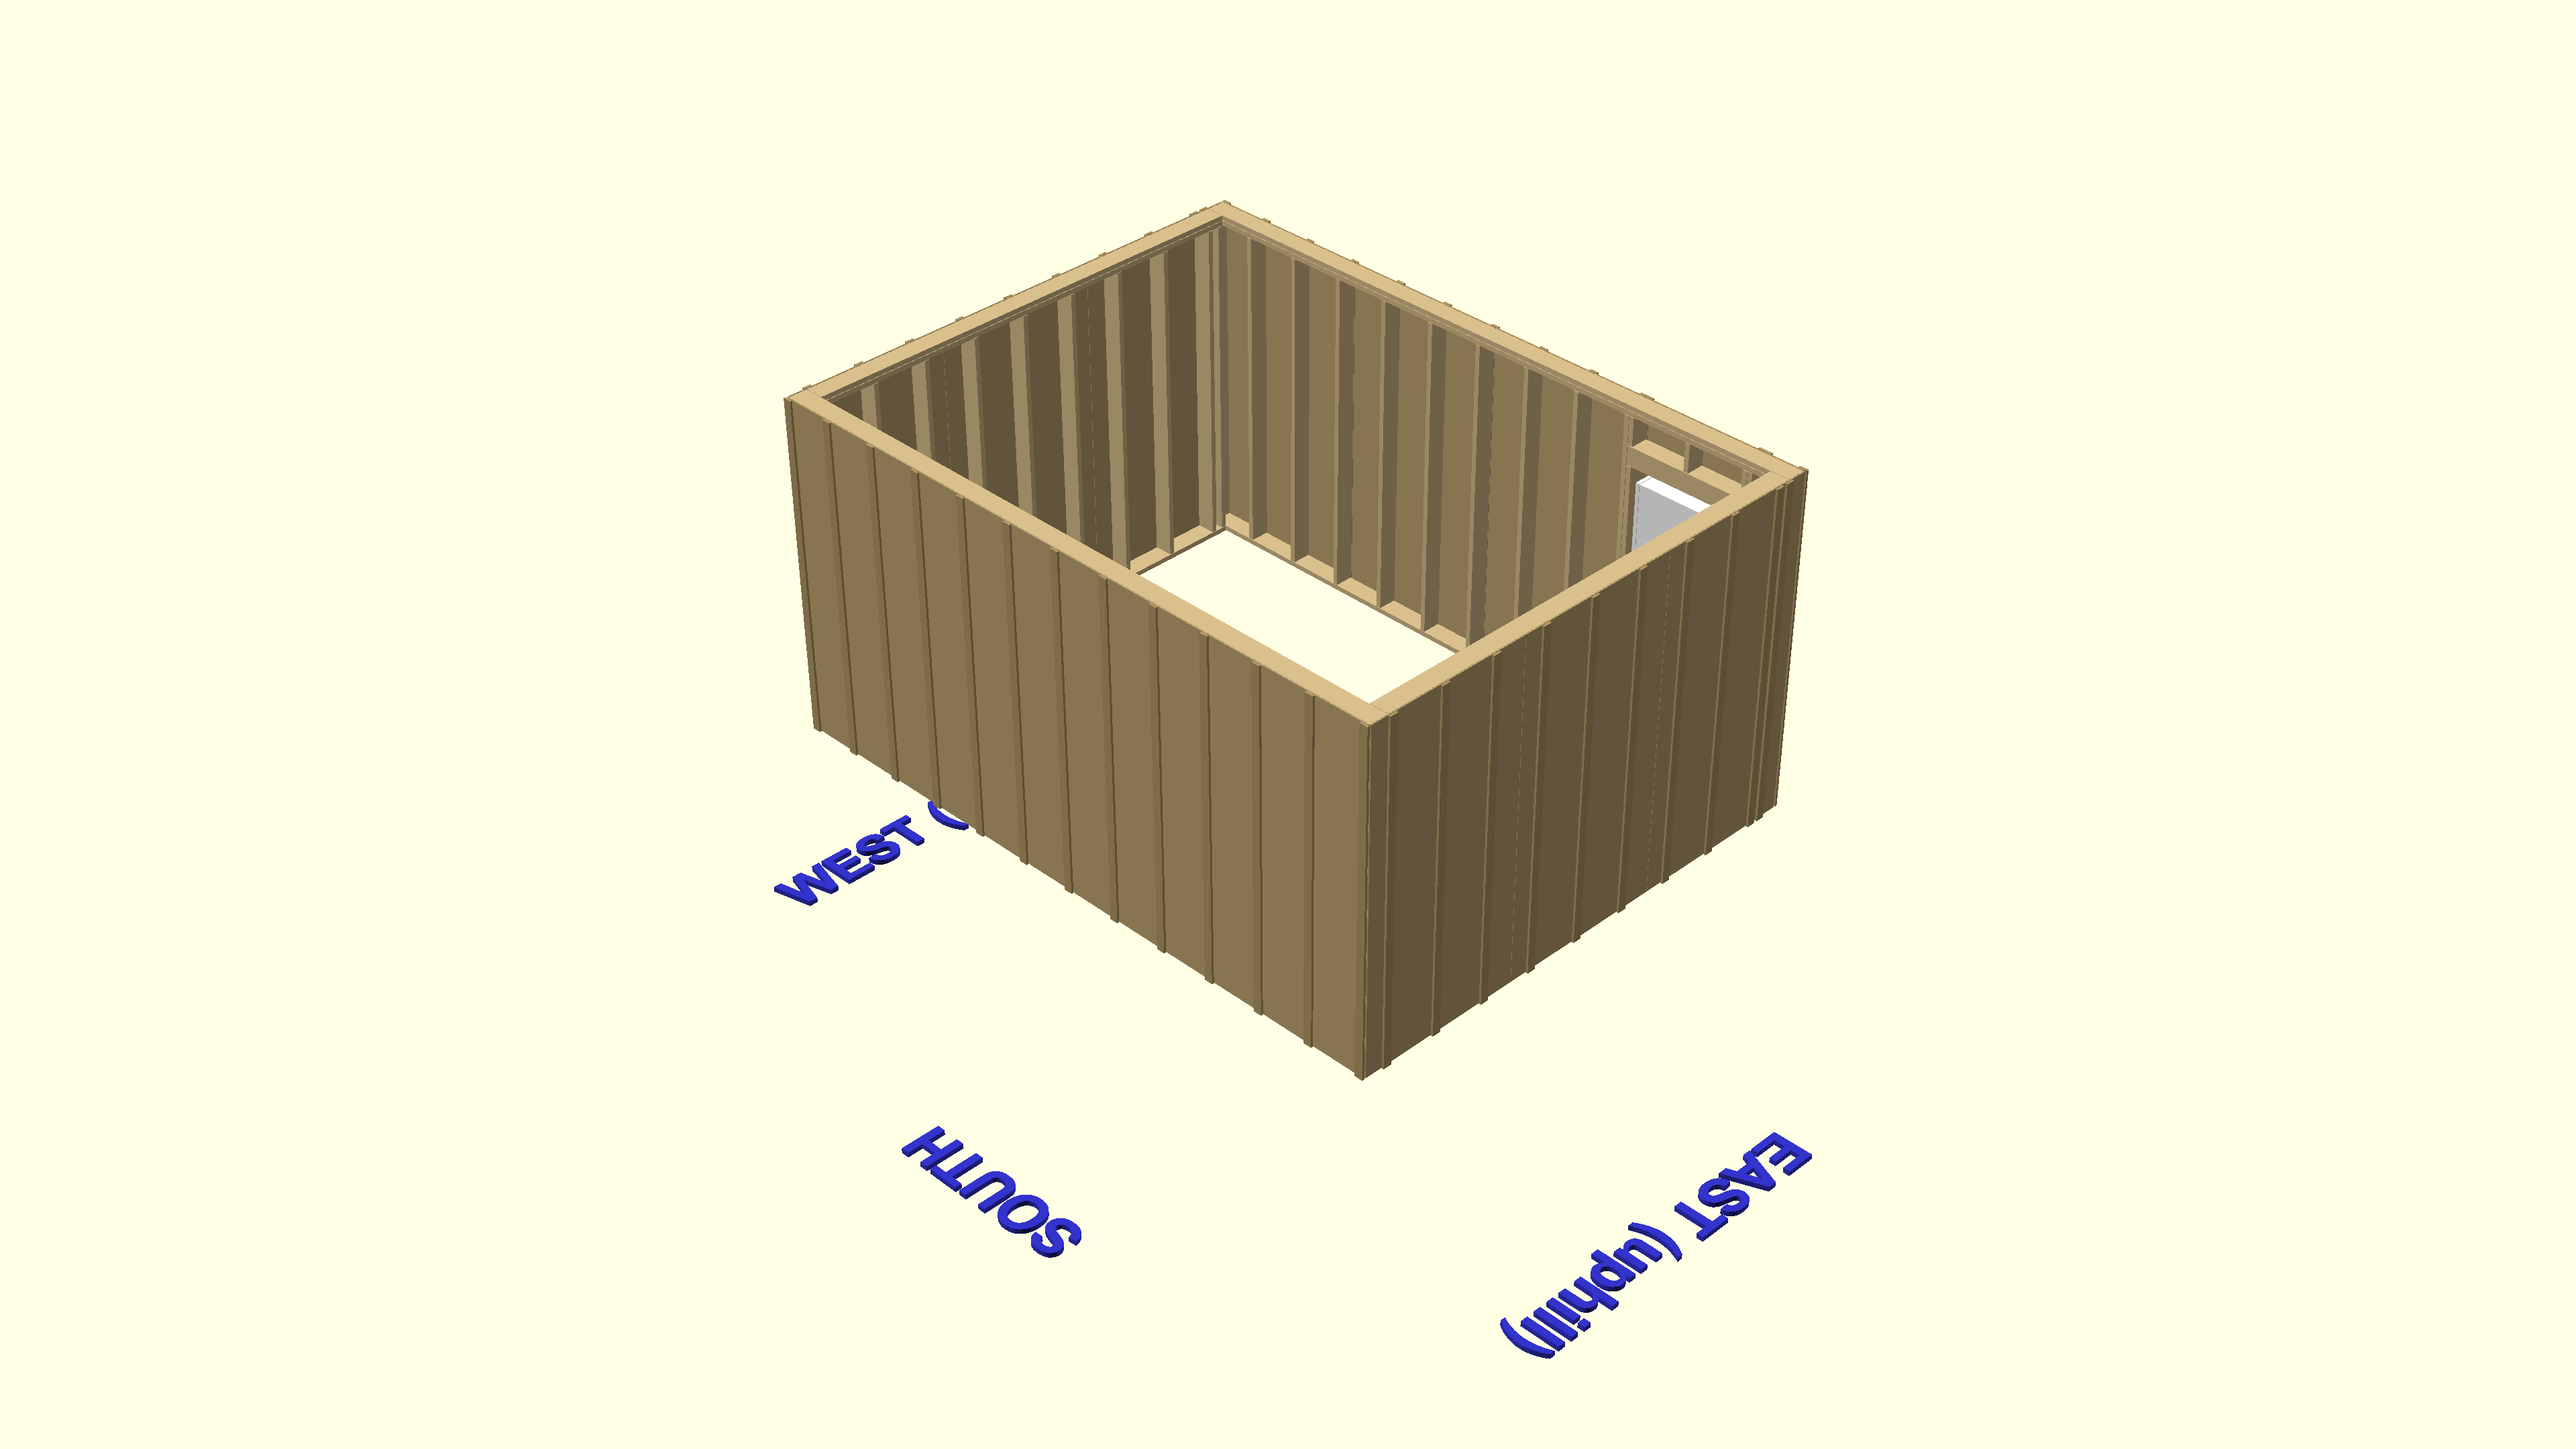
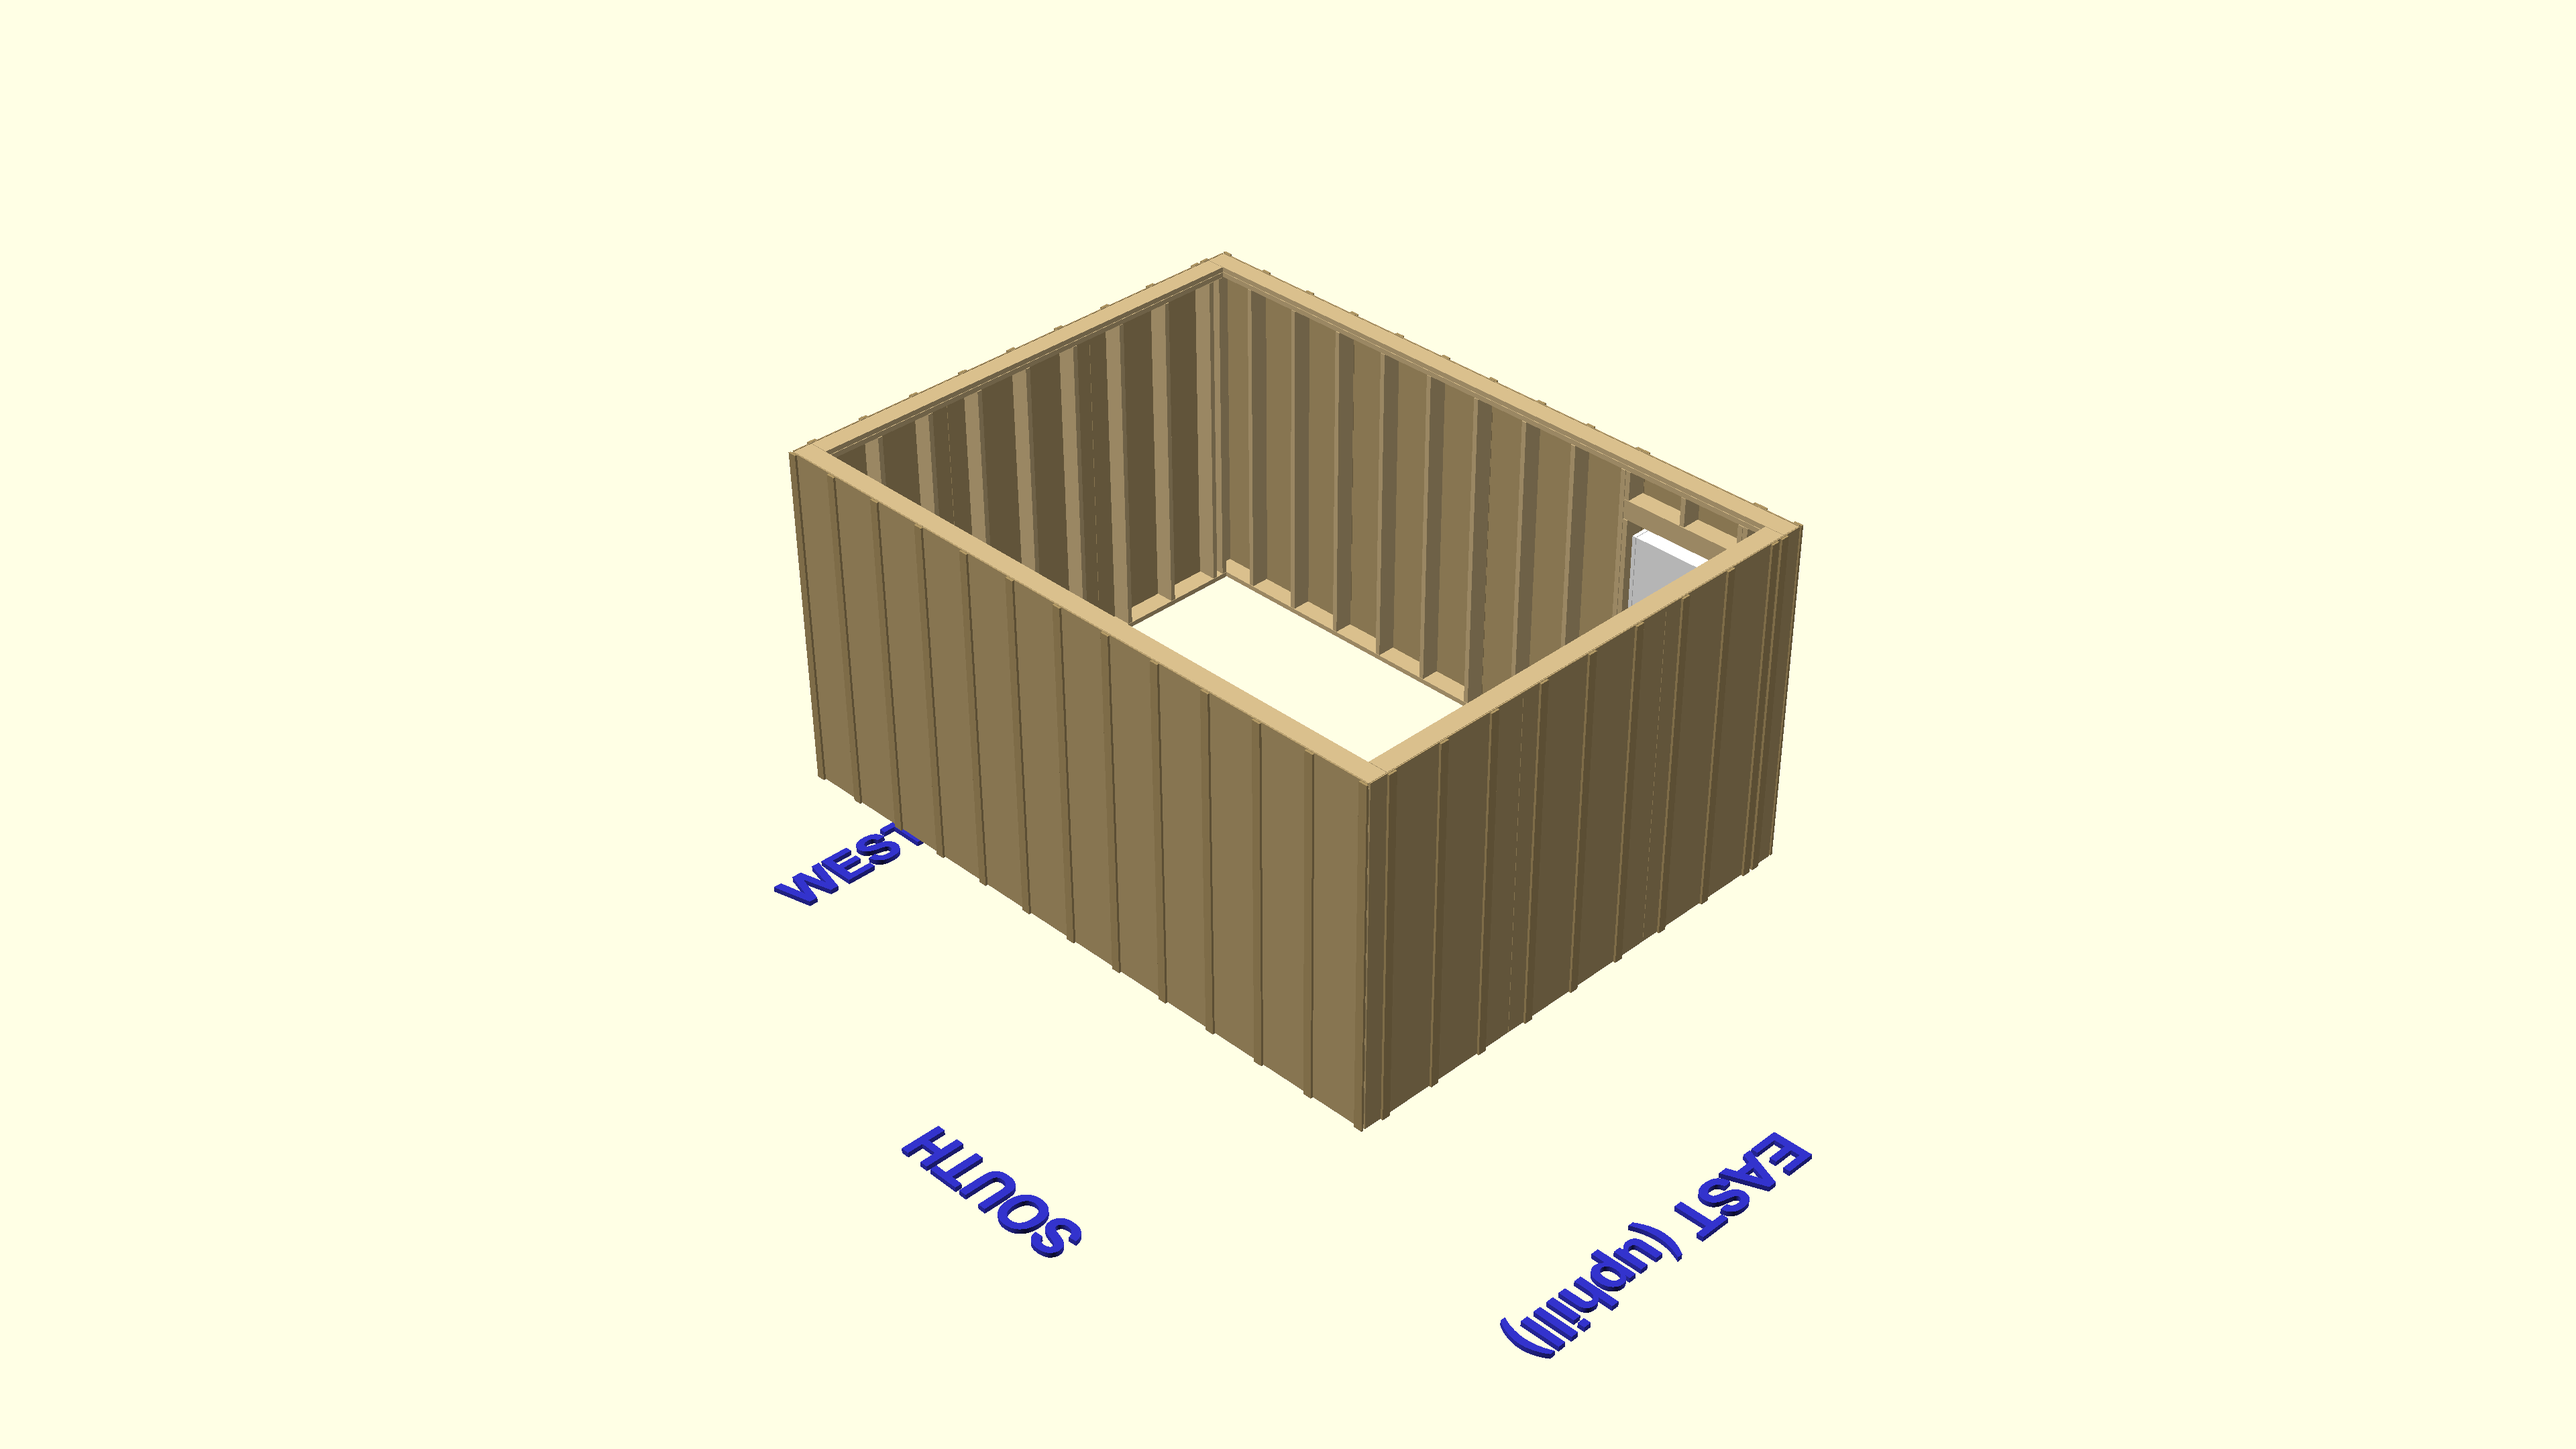
update render camera positions and remove iso-joist view

Changed region(s): [[0.2812, 0.1241, 0.7188, 0.5583], [0.3125, 0.4963, 0.6875, 0.7755]]

diff --git a/tools/render-views.js b/tools/render-views.js
@@ -69,8 +69,8 @@ const CAMERAS = {
   low:             '96,72,0,65,0,45,800',
   frontCornerMid:  '96,72,90,55,0,45,900',
   postBaseClose:   '12,18,35,55,0,315,120',
-  hurricaneTieClose: '176,18,65,55,0,135,80',
-  sideEast:        '192,72,100,90,0,270,500',
+  hurricaneTieClose: '16,126,65,55,0,315,80',
+  sideEast:        '192,72,60,90,0,270,500',
   underfloor:      '96,0,55,75,0,0,400',
   roofCorner:      '96,72,150,45,0,45,1000',
 };
@@ -163,14 +163,14 @@ const VIEWS = [
   },
   {
     name: 'iso-foundation',
-    camera: 'low',
+    camera: '96,72,0,65,0,45,500',
     show: ['show_piers', 'show_post_bases', 'show_compass_labels'],
   },
 
   // --- Isolation views: Posts & Beams ---
   {
     name: 'iso-post',
-    camera: 'frontCorner',
+    camera: '96,72,48,55,0,45,550',
     show: ['show_piers', 'show_post_bases', 'show_posts', 'show_compass_labels'],
   },
   {
@@ -180,16 +180,11 @@ const VIEWS = [
   },
   {
     name: 'iso-posts-and-beams',
-    camera: 'frontCorner',
+    camera: '96,72,48,55,0,45,550',
     show: ['show_piers', 'show_post_bases', 'show_posts', 'show_beams', 'show_compass_labels'],
   },
 
   // --- Isolation views: Floor System ---
-  {
-    name: 'iso-joist',
-    camera: 'frontCorner',
-    show: ['show_beams', 'show_joists', 'show_compass_labels'],
-  },
   {
     name: 'iso-rim-joist',
     camera: 'frontCorner',
@@ -197,8 +192,8 @@ const VIEWS = [
   },
   {
     name: 'iso-blocking',
-    camera: 'underfloor',
-    show: ['show_beams', 'show_joists', 'show_blocking', 'show_compass_labels'],
+    camera: '96,72,80,20,0,45,500',
+    show: ['show_joists', 'show_blocking', 'show_compass_labels'],
   },
   {
     name: 'iso-hurricane-tie',
@@ -207,7 +202,7 @@ const VIEWS = [
   },
   {
     name: 'iso-floor-framing',
-    camera: 'frontCorner',
+    camera: '96,72,48,55,0,45,600',
     show: [
       'show_piers', 'show_post_bases', 'show_posts', 'show_beams',
       'show_joists', 'show_rim_joists', 'show_blocking', 'show_hurricane_ties',

diff --git a/images.md b/images.md
@@ -79,9 +79,6 @@
 **Posts-and-beams skeleton**
 ![Posts and Beams](renders/iso-posts-and-beams.png)
 
-**Floor joists spanning between beams**
-![Joist](renders/iso-joist.png)
-
 **Joists and rim joists forming the floor frame perimeter**
 ![Rim Joist](renders/iso-rim-joist.png)
 
